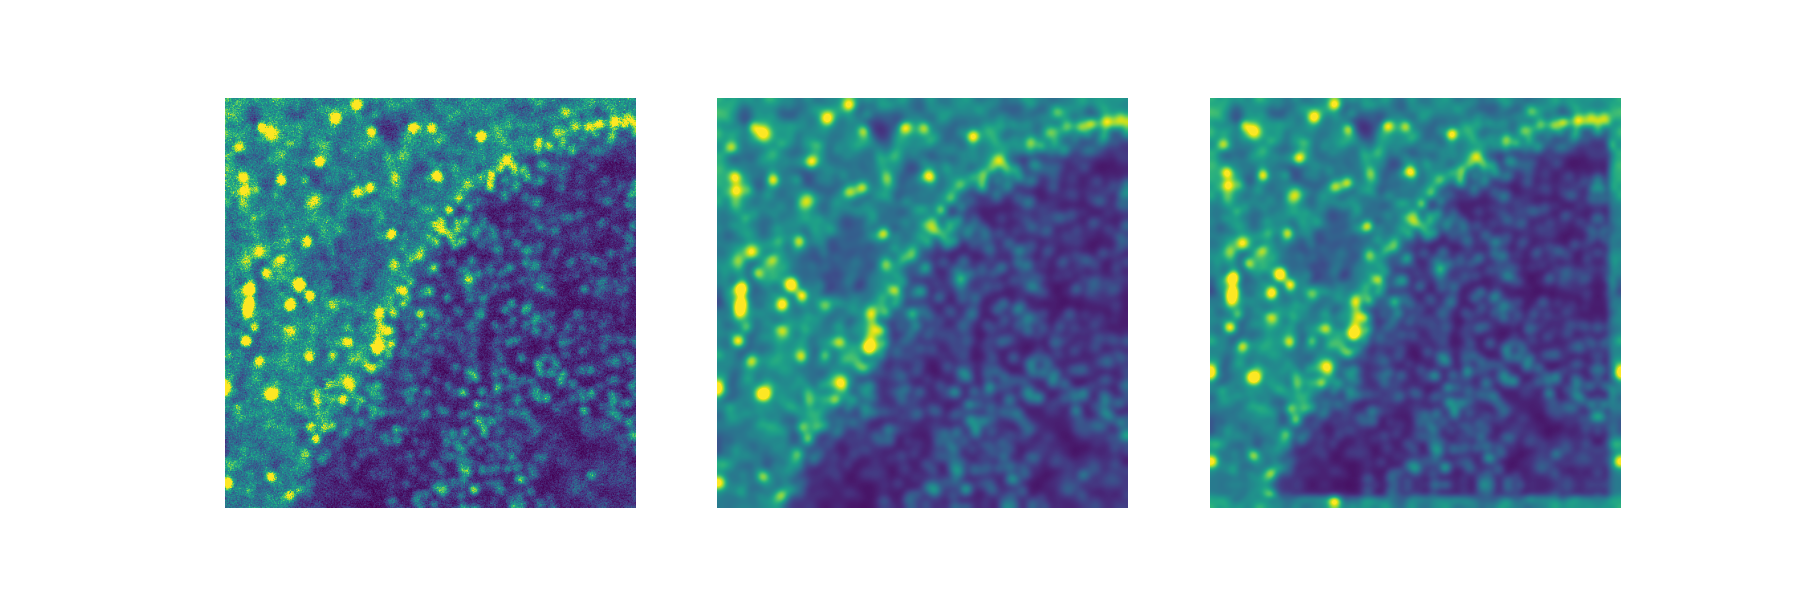
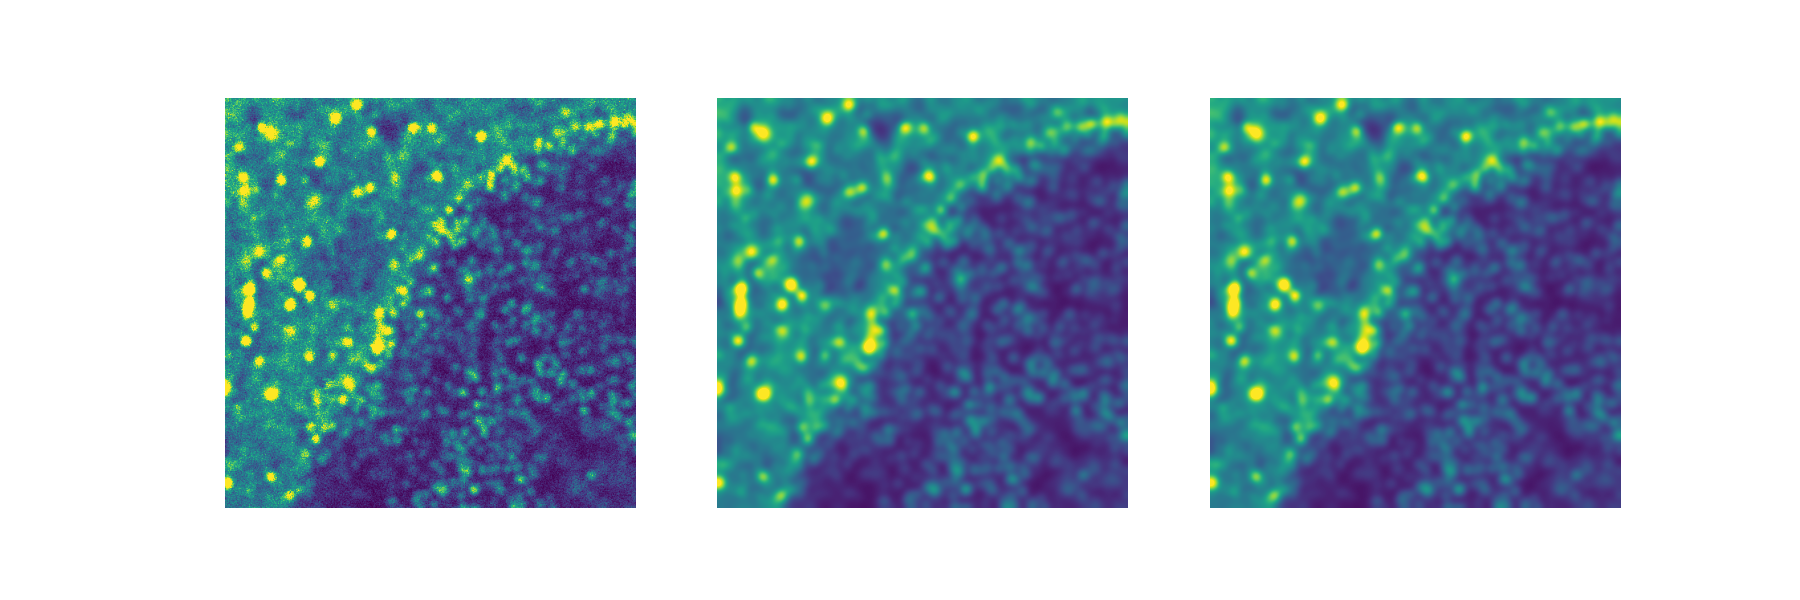
u

Changed region(s): [[0.6533, 0.15, 0.9022, 0.87], [0.6844, 0.21, 0.7156, 0.24]]

diff --git a/src/napari_kld/base/utils/dataset_utils.py b/src/napari_kld/base/utils/dataset_utils.py
@@ -6,6 +6,7 @@ import skimage.io as skio
 import torch
 from skimage import io, transform
 from torch.utils.data import Dataset
+from fft_conv_pytorch import fft_conv
 
 
 def read_txt(path):
@@ -349,21 +350,21 @@ class Rescale:
     Rescale the image in a sample to a given size.
     """
 
-    def __init__(self, output_size):
-        assert isinstance(output_size, (int, tuple))
-        self.output_size = output_size
+    def __init__(self, signal_shape):
+        assert isinstance(signal_shape, (int, tuple))
+        self.signal_shape = signal_shape
 
     def __call__(self, sample):
         image_lr, image_hr = sample["lr"], sample["hr"]
 
         h, w = image_lr.shape[:2]
-        if isinstance(self.output_size, int):
+        if isinstance(self.signal_shape, int):
             if h > w:
-                new_h, new_w = self.output_size * h / w, self.output_size
+                new_h, new_w = self.signal_shape * h / w, self.signal_shape
             else:
-                new_h, new_w = self.output_size, self.output_size * w / h
+                new_h, new_w = self.signal_shape, self.signal_shape * w / h
         else:
-            new_h, new_w = self.output_size
+            new_h, new_w = self.signal_shape
 
         new_h, new_w = int(new_h), int(new_w)
         image_lr_new = transform.resize(image_lr, (new_h, new_w))
@@ -408,18 +409,21 @@ def tensor2gray(x):
     return x
 
 
-def fft_conv_direct(signal, kernel):
-    input_size = signal.shape[2:]
-    output_size = input_size
+def fftn_conv(signal, kernel):
+    signal_shape = signal.shape[2:]
+    kernel_shape = kernel.shape[2:]
 
-    signal_fr = torch.fft.fftn(signal.float(), s=output_size, dim=(2, 3, 4))
-    kernel_fr = torch.fft.fftn(kernel.float(), s=output_size, dim=(2, 3, 4))
+    dim_fft = tuple(range(2, signal.ndim))
+
+    signal_fr = torch.fft.fftn(signal.float(), s=signal_shape, dim=dim_fft)
+    kernel_fr = torch.fft.fftn(kernel.float(), s=signal_shape, dim=dim_fft)
 
     kernel_fr.imag *= -1
     output_fr = signal_fr * kernel_fr
-    output = torch.fft.ifftn(output_fr, dim=(2, 3, 4))
-    output = torch.abs(output)
-    # output = output.real
+    output = torch.fft.ifftn(output_fr, dim=dim_fft)
+    # output = torch.abs(output)
+    output = output.real
+    output = output[:,:, 0:signal_shape[0]-kernel_shape[0]+1,0:signal_shape[1]-kernel_shape[1]+1, 0:signal_shape[2]-kernel_shape[2]+1 ]
 
     return output
 
@@ -429,13 +433,12 @@ if __name__ == "__main__":
 
     img_path = "D:/GitHub/napari-kld/test/data/real/3D/train/raw/0_0_0.tif"
     img = skio.imread(img_path)
-    kernel = gauss_kernel_3d(shape=(3, 31, 31), std=(1, 4, 4))
+    kernel = gauss_kernel_3d(shape=(3, 31, 31), std=(2, 4, 4))
 
     img = torch.Tensor(img)[None, None]
     kernel = torch.Tensor(kernel)[None, None]
-
     kernel_size = kernel.shape[2:]
-    img_size = img.shape
+    img_size = img.shape[2:]
 
     pad_size = (
         kernel_size[2] // 2,
@@ -448,21 +451,20 @@ if __name__ == "__main__":
 
     img_pad = torch.nn.functional.pad(input=img, pad=pad_size, mode="reflect")
 
-    print(img.shape)
-    print(img_pad.shape)
-    print(kernel.shape)
+    print('image shape :', img.shape)
+    print('image shape (padding) :', img_pad.shape)
+    print('kernel shape :', kernel.shape)
 
-    img_conv = fft_conv_direct(img_pad, kernel=kernel)
-    # img_conv = img_conv[:,:, 1:1+6, 15:15+512, 15:15+512]
-    img_conv = img_conv[:, :, 0:6, 0:512, 0:512]
-    print("1:", img_conv.shape)
+    img_conv = fftn_conv(img_pad, kernel=kernel)
+    img_conv = img_conv[:, :, 0:img_size[0], 0:img_size[1], 0:img_size[2]]
+    print("image shape (fftn) :", img_conv.shape)
 
-    # img_conv2 = fft_conv(img_pad, kernel)
-    img_conv2 = fft_conv_direct(img_pad, kernel)
-    print("2:", img_conv2.shape)
+    img_conv2 = fft_conv(img_pad, kernel)
+    # img_conv2 = fft_conv_direct(img_pad, kernel)
+    print("image shape (rfftn) :", img_conv2.shape)
 
-    print(img_conv[0, 0, 3, 250, 200:225])
-    print(img_conv2[0, 0, 3, 250, 200:225])
+    print(img_conv[0, 0, 3, 250, 205:210])
+    print(img_conv2[0, 0, 3, 250, 205:210])
 
     fig, axes = plt.subplots(dpi=300, nrows=1, ncols=3, figsize=(6, 2))
     [ax.set_axis_off() for ax in axes.ravel()]
